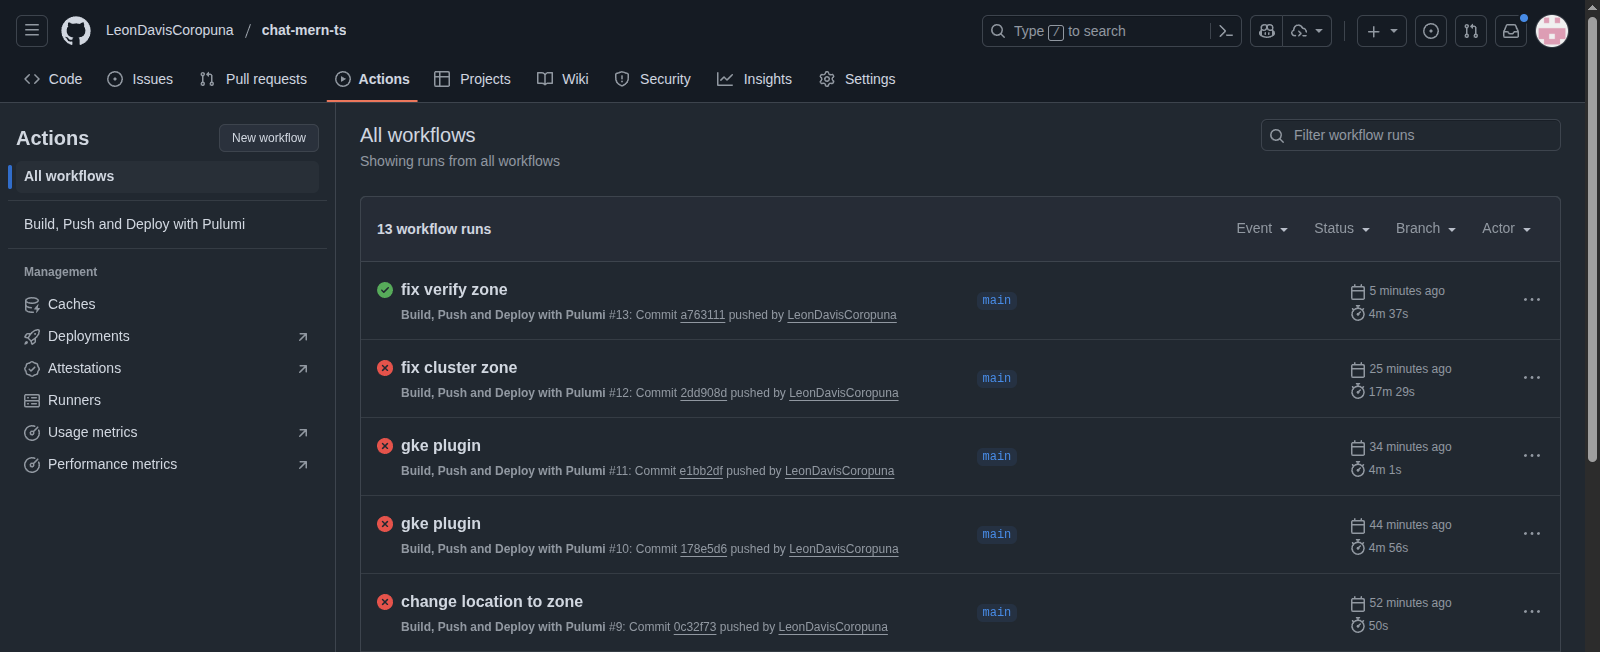
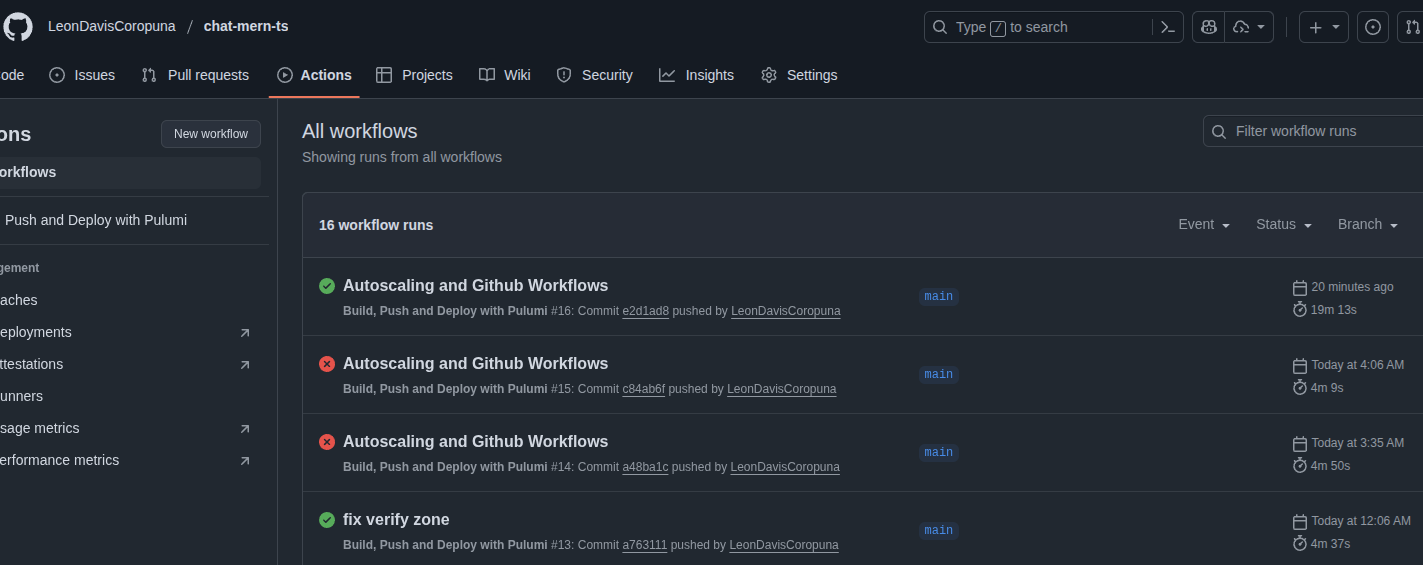
Autoscaling and Github Workflows

diff --git a/infra/index.ts b/infra/index.ts
@@ -410,7 +410,7 @@ const backendHPA = new k8s.autoscaling.v2.HorizontalPodAutoscaler("backend-hpa",
       name: backendDeployment.metadata.name,
     },
     minReplicas: 1,
-    maxReplicas: 4,
+    maxReplicas: 8,
     metrics: [
       {
         type: "Resource",
@@ -795,13 +795,13 @@ export const autoscalingConfig = {
   podAutoscaling: {
     backend: {
       minReplicas: 1,
-      maxReplicas: 4,
+      maxReplicas: 8,
       targetCpuUtilization: 70,
       targetMemoryUtilization: 60
     },
     frontend: {
       minReplicas: 1, 
-      maxReplicas: 4,
+      maxReplicas: 6,
       targetCpuUtilization: 60
     }
   }
